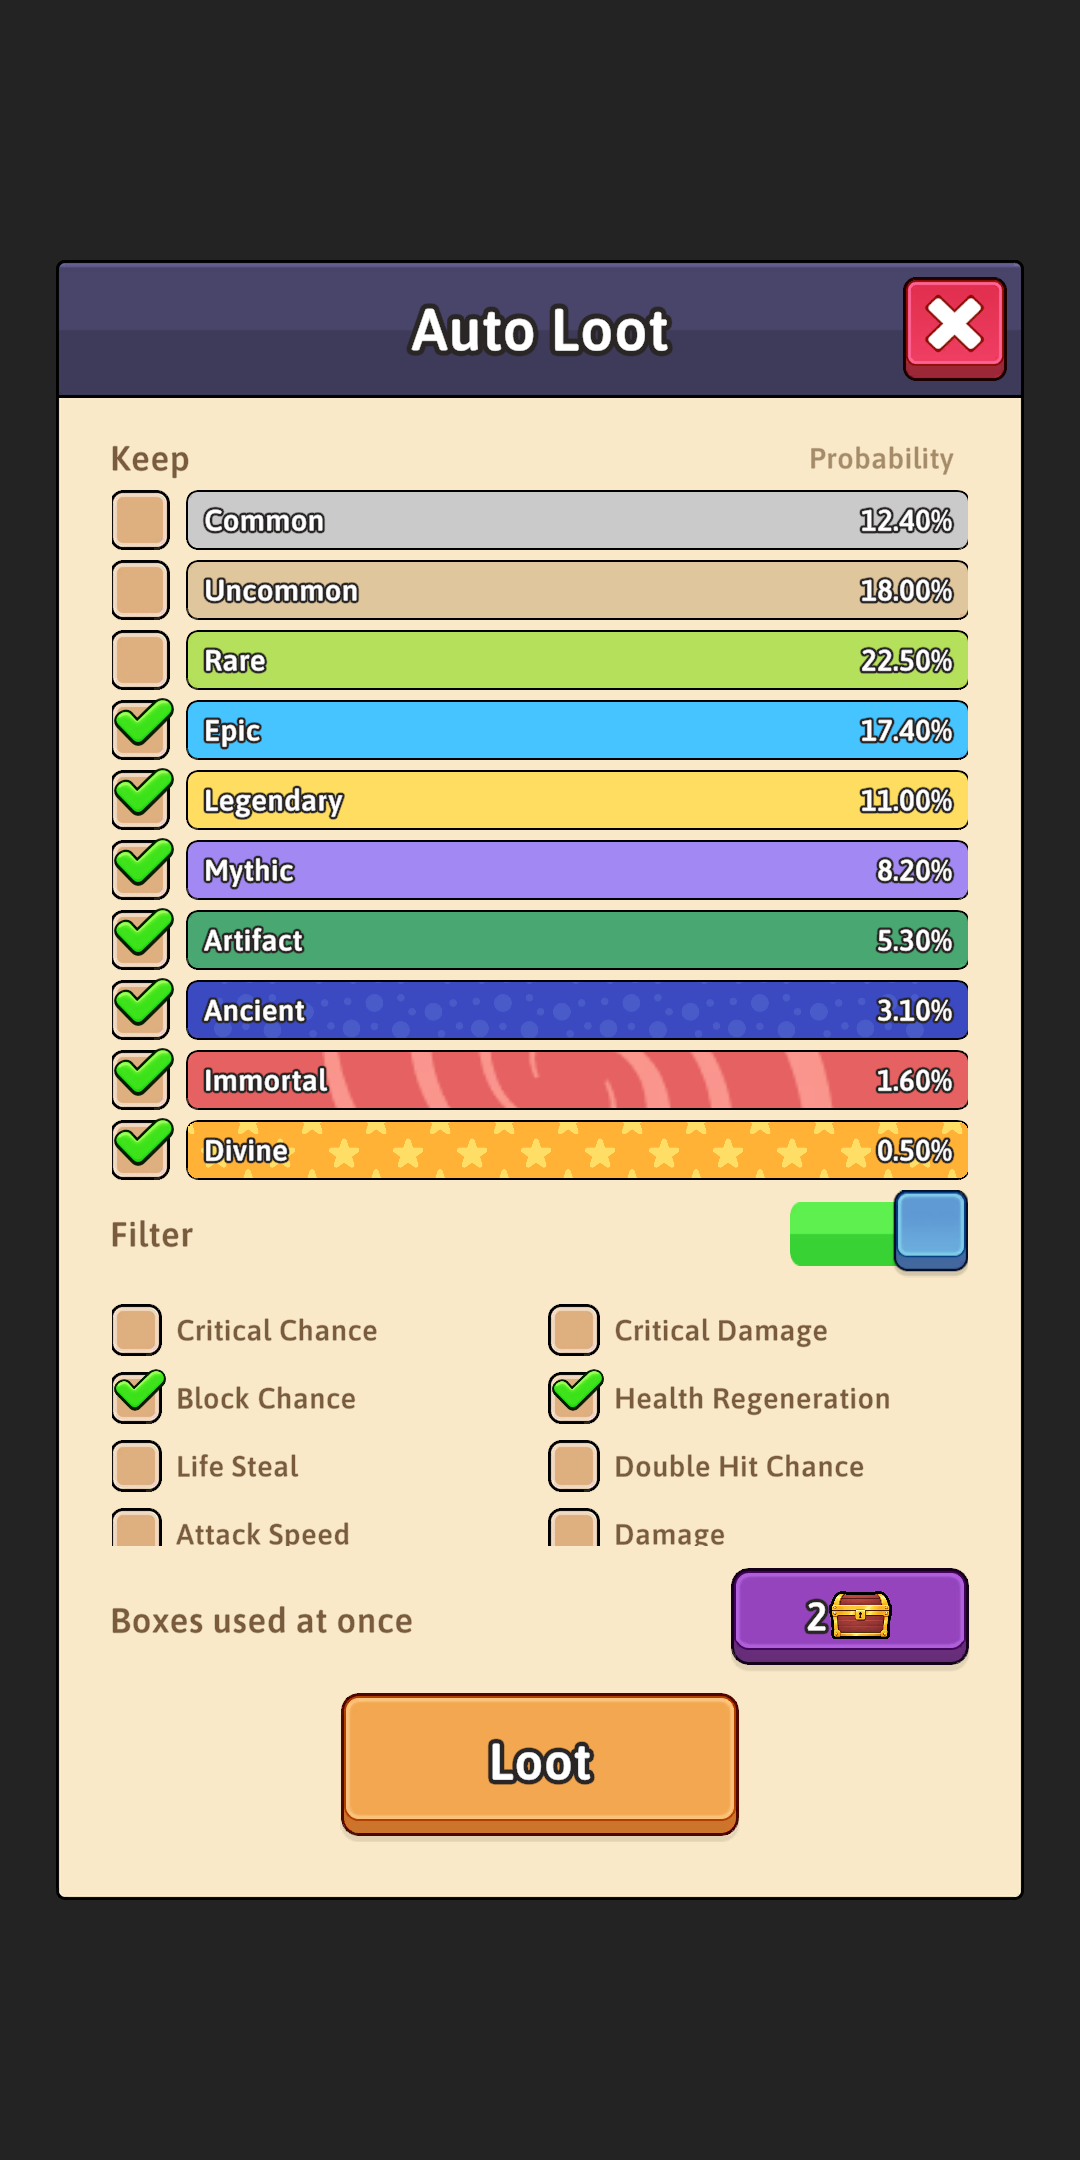
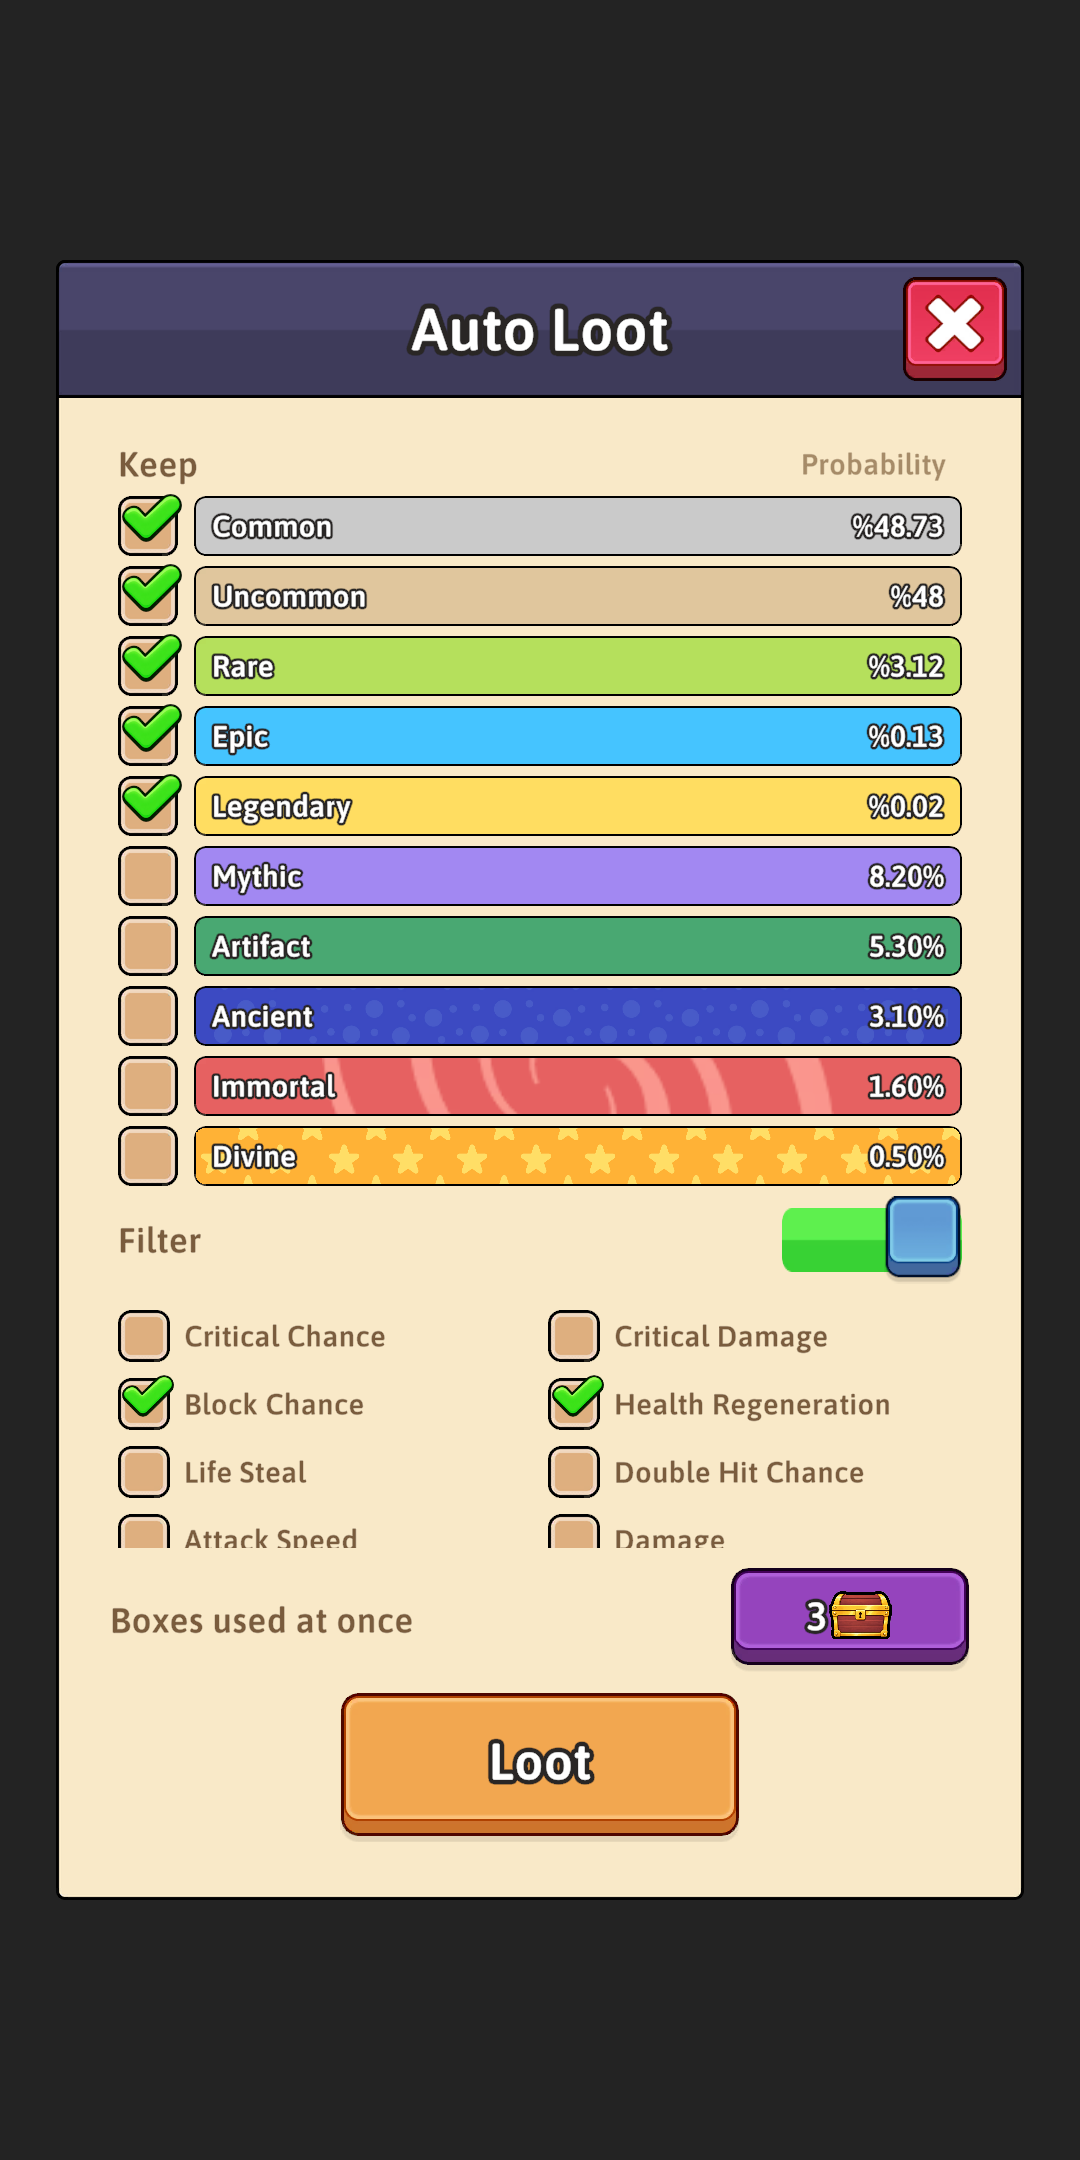
Sửa viền Auto Loot bị mask cắt; ghi tiến độ + quy trình tối ưu reskin popup
- Batch1Reskin: vùng cuộn Auto Loot dùng mask không sprite + lề trong 8 (sprite UIMask bo mép làm đứt viền ô tick/thanh rarity); chạy lại cho prefab
- tools/concept/PLAN.md: quy trình 3 phase (khảo sát → concept → áp), bẫy đã gặp, dòng "Đang ở / Tiếp theo" (xong Đợt 0+1, tiếp Đợt 2)
- Memory: gọn lại, trỏ về PLAN.md, ghi các điểm user đã sửa để không lặp

Changed region(s): [[0.0917, 0.1861, 0.9167, 0.7134], [0.7944, 0.6204, 0.825, 0.6514], [0.7333, 0.7444, 0.7639, 0.7755]]

diff --git a/2026DungeonRushUnity/Assets/_Assets/Scripts/Art/Editor/Batch1Reskin.cs b/2026DungeonRushUnity/Assets/_Assets/Scripts/Art/Editor/Batch1Reskin.cs
@@ -375,6 +375,7 @@ public static class Batch1Reskin
     private const float ROW_HEIGHT = 60f;
     private const float CHECK_SIZE = 60f;
     private const float BAR_LEFT = 76f;
+    private const float SCROLL_PAD = 8f;
     private static readonly string[] RARITY_BARS =
         { "common", "uncommon", "rare", "epic", "legendary", "mythic", "artifact", "ancient", "immortal", "divine" };
 
@@ -404,9 +405,14 @@ public static class Batch1Reskin
             float scrollHeight = AUTO_HEIGHT - PopupStyle.CONTENT_TOP - AUTO_BOTTOM - 20f;
             float innerWidth = PopupStyle.WIDTH_LARGE - 2f * PopupStyle.SIDE_INSET;
             PopupStyle.PlaceTop(scroll, 0f, PopupStyle.CONTENT_TOP + scrollHeight / 2f, innerWidth, scrollHeight);
-            PopupStyle.Stretch(scroll.Find("Viewport"));
-            Transform content = scroll.Find("Viewport/Content");
-            SetVertical(content.GetComponent<VerticalLayoutGroup>(), 24f);
+            // Mặt nạ cắt vuông (sprite UIMask bo mờ mép 10 làm đứt viền đen ô tick/thanh) + chừa lề 8 hai bên.
+            Transform viewport = scroll.Find("Viewport");
+            PopupStyle.Stretch(viewport);
+            viewport.GetComponent<Image>().sprite = null;
+            Transform content = viewport.Find("Content");
+            VerticalLayoutGroup contentLayout = content.GetComponent<VerticalLayoutGroup>();
+            SetVertical(contentLayout, 24f);
+            contentLayout.padding = new RectOffset((int)SCROLL_PAD, (int)SCROLL_PAD, 6, 6);
 
             Transform loot = content.Find("LootList");
             SetVertical(loot.GetComponent<VerticalLayoutGroup>(), 10f);
@@ -419,7 +425,7 @@ public static class Batch1Reskin
             PopupStyle.RemoveComponent<VerticalLayoutGroup>(filterList);
             GridLayoutGroup grid = filterList.GetComponent<GridLayoutGroup>();
             if (grid == null) grid = filterList.gameObject.AddComponent<GridLayoutGroup>();
-            grid.cellSize = new Vector2((innerWidth - 16f) / 2f, 56f);
+            grid.cellSize = new Vector2((innerWidth - 2f * SCROLL_PAD - 16f) / 2f, 56f);
             grid.spacing = new Vector2(16f, 12f);
             grid.constraint = GridLayoutGroup.Constraint.FixedColumnCount;
             grid.constraintCount = 2;

diff --git a/zMemory/dungonrush-ui-concept-workflow.md b/zMemory/dungonrush-ui-concept-workflow.md
@@ -1,11 +1,11 @@
 ---
 name: dungonrush-ui-concept-workflow
-description: "Quy trình chuẩn chuẩn bị reskin lại bộ UI — học style ảnh mẫu, concept HTML bằng sprite thật, user duyệt, tool editor sửa prefab tại chỗ; mẫu đầu là popup 7 ngày (2026-11-11)"
+description: "Reskin lại MỌI popup theo đợt: concept HTML sprite thật → user chốt → tool PopupStyle/Batch<N>Reskin sửa prefab tại chỗ; quy trình + tiến độ ở tools/concept/PLAN.md; Đợt 0+1 xong 2026-11-11, tiếp Đợt 2"
 metadata:
   node_type: memory
   type: project
   originSessionId: 3164be48-a1fc-4de0-a1a9-4dd4a3175277
-  modified: 2026-11-11T08:33:36.794Z
+  modified: 2026-11-11T17:00:00.000Z
 ---
 
 User duyệt cách làm này ngày 2026-11-11, dặn CHỈ lưu trong bộ nhớ, KHÔNG viết tài liệu vào GDD/.
@@ -25,34 +25,26 @@ User duyệt cách làm này ngày 2026-11-11, dặn CHỈ lưu trong bộ nhớ
 - Ruy băng vàng `Gameplay/ribbon_offer`, nhãn đỏ `Events/ribbon_red` (9-slice L20 R52), ô tối bo tròn `Mastery/mastery_panel` (9-slice 45), thẻ `Mastery/card_locked`/`card_unlocked`.
 - Icon tiền `Art/2_Icons/Currency/`: `gem`, `box_icon` (= búa Loot), `bone_icon`.
 
-## Các bước
-1. Đo màu ảnh mẫu bằng PIL (trung bình 5×5 px), rút quy tắc viền/nút/chữ/bố cục.
-2. (Tuỳ) concept nháp bằng widget HTML để chốt bố cục/UX.
-3. Concept bằng sprite thật: `tools/concept/<màn>/concept.html` trỏ thẳng `Art/` + font Asap; 1 px CSS = 2 đơn vị canvas 1080×2160; vẽ đủ mọi trạng thái cạnh nhau.
-4. Chụp: `tools/concept/render_concept.sh <html> <png>` (Chrome headless ×2); ảnh để cạnh html trong `tools/concept/<màn>/`.
-5. Ảnh kit không có → sinh bằng code `tools/reskin/gen_*.py` (VD `gen_day7_bg.py`); icon minh hoạ mới → skill chatgpt-image.
-6. User duyệt concept xong mới đụng Unity.
-7. Tool editor `Scripts/Art/Editor/<Màn>Reskin.cs`: sửa prefab có sẵn TẠI CHỖ (giữ GUID + chỉnh tay cũ), chạy lại ra cùng kết quả, số đo = concept × 2; builder cũ gọi tool ở cuối.
-8. Đổi trạng thái = đổi sprite / ẩn hiện trong script UI, không tô màu đè.
-9. Chữ mới: key vào đủ 10 file `Resources/Json/Localize/Languages/`, chữ dài bật auto size.
-10. Chụp kiểm `UICaptureTool.Capture` (không cần Play), ghép cạnh concept.
+## Quy trình + tiến độ: `tools/concept/PLAN.md` (nguồn chính, đọc đầu tiên)
+PLAN.md giữ: danh sách 67 popup chia Đợt 0..9, quy trình tối ưu 3 phase (A khảo sát → B concept → C áp), bẫy đã gặp, bảng tiến độ + dòng "Đang ở / Tiếp theo". Cập nhật bảng sau MỖI bước.
 
-## Bẫy
-- Unity `spriteBorder` = (trái, dưới, phải, trên); CSS `border-image-slice` = (trên, phải, dưới, trái).
-- Concept: `position:absolute` tính từ mép trong viền → bỏ `border-image` phải dời lại vị trí.
-- `Loc.L` ở edit mode trả key (LocalizeManager chỉ nạp khi Play) → chụp kiểm gán chữ tay. Đừng gọi `X.Instance` Singleton không có trong scene đang mở.
-- Nút khoá: `Button.transition = None` + sprite xám, để ColorTint sẽ tối thêm.
+## Code dùng chung đã có
+- `tools/concept/kit/kit.css` (CSS kit, concept các đợt link vào) + `tools/concept/render_concept.sh` (Chrome headless ×2).
+- `Scripts/Art/Editor/PopupStyle.cs` (Shell/Title/CloseButton/Button màu chức năng/Outline/Plain/PlaceTop đo từ mép trên).
+- `Scripts/Art/Editor/Batch1Reskin.cs` = mẫu tool 1 đợt; `UICaptureTool.Capture` chụp edit mode.
+- `Scripts/UI/Forge/ItemStatsView.cs` = khối chữ món đồ (dùng lại cho Wing/Cape/Enchantment info ở đợt sau).
 
-## Mẫu đầu: popup 7 ngày (2026-11-11)
-`tools/concept/seven_day/` (concept.html + ảnh concept + ảnh Unity), `SevenDayPopupReskin` (menu Tools/DungeonRush/Reskin/Seven Day Popup), `SevenDayCellUI` đổi sprite, `UISevenDayPopup` ô đếm giờ + nút X, nền `Art/1_UIKit/SevenDay/day7_bg.png`, 3 key `Popup.SevenDay.Subtitle/NextGift/BigReward`. Chụp edit mode khớp concept; CHƯA test Play, CHƯA commit.
+## Điều user đã dặn / sửa (đừng lặp lỗi)
+- Trước khi concept popup có chỉ số: đếm số dòng TỐI ĐA từ data thật, khung cao cố định theo max (user hỏi "đủ không gian chưa").
+- Nhãn/tag không được dính sát ô bên dưới (user báo "bị kích quá").
+- Thanh tiến độ: fill phải thụt đều trong viền (user báo lỗi bản đầu).
+- Viền đen bị mask vùng cuộn cắt (user báo "viền đứt") → mask không sprite + lề 8.
+- Chốt concept rồi mới đụng Unity; commit thẳng main khi user bảo (user đã bảo commit sau mỗi đợt).
+
+## Đã làm
+- Mẫu đầu: popup 7 ngày (`SevenDayPopupReskin`) + kết quả dungeon (`DungeonEndPopupReskin`) — commit 37505a04.
+- Đợt 0 kit + Đợt 1 Trang bị & Loot (6 popup) — commit 812200d0, sửa viền Auto Loot sau đó. Thêm nút Claim tím ở Combat Summary (user chốt concept). Popup Đợt 1 khác Auto Loot CHƯA test Play.
 
 **Why:** user sẽ reskin lại cả bộ UI theo style mới; concept trước → duyệt → áp để khỏi làm lại prefab nhiều lần.
 
-**How to apply:** màn mới → làm theo các bước trên, chờ user duyệt concept rồi mới viết tool reskin. Liên quan [[dungonrush-reskin-ui-howto]], [[dungonrush-reskin-plan]], [[dungonrush-growth-p0]].
-
-## Kế hoạch toàn bộ popup (2026-11-11)
-User yêu cầu concept lại MỌI popup còn lại, chia đợt: concept xong user chốt mới ghép vào game. Kế hoạch + bảng tiến độ ở `tools/concept/PLAN.md` (đợt 0 kit chung + 9 đợt, 67 popup). Đọc file đó khi user nói "làm đợt tiếp", cập nhật bảng tiến độ sau mỗi bước.
-- Concept các đợt link `tools/concept/kit/kit.css` (CSS kit chung); C# kit = `Scripts/Art/Editor/PopupStyle.cs` (Shell/Title/CloseButton/Button màu chức năng/Outline/Plain/PlaceTop đo từ mép trên).
-- User đòi: TRƯỚC khi concept popup có chỉ số phải đếm số dòng tối đa từ data thật (gear 1+3 substat, Wing 2+5, Cape 2+2, Auto Loot 10 rarity + 13 lọc) → ô cao cố định theo max, rỗng hiện "No bonus stats".
-- Đợt 1 (2026-11-11) đã áp: `Batch1Reskin` (menu Tools/DungeonRush/Reskin/Batch 1), `ItemStatsView` dùng chung cho ItemInfo/NewItem/NewForge, builder cũ Forge/Level/Offline gọi tool cuối; thêm nút Claim tím ở Combat Summary (user chốt concept). CHƯA test Play, đã commit 812200d0.
-- Bẫy chụp: Auto Loot có ContentSizeFitter lồng → ép LayoutRebuilder từng list rồi Content; TMP sprite asset cần UpdateLookupTables trước khi chụp.
+**How to apply:** user nói "làm đợt tiếp"/"làm Đợt N" → mở PLAN.md, làm theo quy trình A→B→C, chờ user chốt concept rồi mới viết tool reskin. Liên quan [[dungonrush-reskin-ui-howto]], [[dungonrush-reskin-plan]], [[dungonrush-growth-p0]].

diff --git a/tools/concept/PLAN.md b/tools/concept/PLAN.md
@@ -4,12 +4,30 @@
 Còn: 67 popup = 66 key trong `UIKey` (trừ `UIChatTabPage` là trang) + `MateryPopupUpgrade` nằm trong UIMainGame2.
 Không làm: trang tab (`StoreTabPage`, `ClanTabPage`, `UIChatTabPage`), `LevelPopup` + `UiLevelPopup ` (nguồn rip, game không mở).
 
-## Quy trình mỗi đợt
-1. Chụp hiện trạng mọi popup trong đợt bằng `UICaptureTool` → `tools/concept/<đợt>/before/`.
-2. Concept HTML bằng sprite thật → `tools/concept/<đợt>/concept.html` + `concept.png`, đủ mọi trạng thái.
-3. **User chốt concept** (sửa đến khi chốt).
-4. Tool `Scripts/Art/Editor/<Đợt>Reskin.cs` sửa prefab tại chỗ (giữ GUID), chạy lại ra cùng kết quả.
-5. Chụp kiểm Unity cạnh concept, console 0 lỗi → commit đợt.
+## Quy trình mỗi đợt (bản tối ưu sau Đợt 1)
+**A. Khảo sát (1 lượt, trước khi vẽ)**
+1. Chụp hiện trạng mọi popup bằng `UICaptureTool` → `tools/concept/<đợt>/before/`.
+2. Dump cây prefab (tên, anchor, pos, size, component, sprite, chữ) bằng UnityMCP `execute_code` ra scratchpad — đọc 1 lần thay vì mở từng prefab.
+3. Đọc script popup + builder cũ: trường nào nối node nào, chỗ nào **tô màu đè** (đổi sang đổi sprite), chữ nào cứng / có key dịch sẵn.
+4. **Đếm số dòng/ô TỐI ĐA từ data thật** (vd gear 1+3 substat, Wing 2+5, Auto Loot 10 rarity + 13 lọc) và tên dài nhất 10 ngôn ngữ → khung cao cố định theo max, rỗng thì chữ mờ.
+
+**B. Concept**
+5. `tools/concept/<đợt>/concept.html` link `../kit/kit.css`, `<base>` trỏ `Art/`, vẽ CẢ trường hợp nhiều dòng nhất lẫn ít dòng nhất + mọi trạng thái (khoá, xác nhận, cuộn đáy).
+6. Tự soát trước khi gửi: nhãn/tag phải có khoảng hở với ô (không dính), không chữ đè nút X, thanh tiến độ fill thụt đều trong viền.
+7. **User chốt** (sửa đến khi chốt). Ghi các chỗ lệch gốc/đề xuất để user quyết.
+
+**C. Áp vào game**
+8. Script: đổi trạng thái bằng sprite/ẩn hiện; khối lặp lại thì tách component dùng chung (vd `ItemStatsView`).
+9. Tool `Scripts/Art/Editor/Batch<N>Reskin.cs` dùng `PopupStyle` (Shell/Title/CloseButton/Button/Outline/Plain/PlaceTop — toạ độ đo từ MÉP TRÊN panel tới TÂM, = concept × 2). Sửa prefab tại chỗ, chạy lại ra cùng kết quả; builder cũ gọi tool ở cuối.
+10. Thoát Play mode trước khi biên dịch/chạy tool (Play đang chạy thì code mới chưa nạp).
+11. Chụp kiểm từng trạng thái có dữ liệu mẫu → ghép `tools/concept/<đợt>/unity.png` cạnh concept, console 0 lỗi → commit đợt → user test Play.
+
+**Bẫy đã gặp**
+- Vùng cuộn: Mask dùng sprite `UIMask` bo mờ mép → cắt viền đen phần tử sát mép. Dùng mask không sprite + lề trong 8.
+- Chụp edit mode: ContentSizeFitter lồng nhau phải `ForceRebuildLayoutImmediate` từng list rồi tới Content; TMP sprite asset gọi `UpdateLookupTables()` trước; `Loc.L` trả key → điền chữ tay.
+- Ô chữ 2 cột (nhãn + số): cột số đặt theo `GetPreferredValues` của nhãn lúc chạy (nhãn đổi theo ngôn ngữ).
+- Mũi tên đặt theo `textBounds` → neo = pivot của ô chữ.
+- CSS: border-image dùng `/ width` + padding, đừng để `position:absolute` tính từ mép trong viền (lệch fill).
 
 ## Các đợt (thứ tự theo mức người chơi gặp sớm)
 
@@ -32,10 +50,12 @@ Không làm: trang tab (`StoreTabPage`, `ClanTabPage`, `UIChatTabPage`), `LevelP
 - Đổi trạng thái bằng đổi sprite / ẩn hiện trong script, không tô màu đè.
 
 ## Tiến độ
+**Đang ở:** Đợt 1 xong (áp + commit). **Tiếp theo:** Đợt 2 Shop & ưu đãi — bắt đầu từ bước A.
+
 | Đợt | Concept | Chốt | Áp vào game | Commit |
 |---|---|---|---|---|
-| 0 | ✅ tools/concept/kit/ (kit.css dùng chung) | ✅ 2026-11-11 | ✅ Scripts/Art/Editor/PopupStyle.cs | |
-| 1 | ✅ tools/concept/batch1/ | ✅ 2026-11-11 | ✅ Batch1Reskin (chụp edit mode: batch1/unity.png), CHƯA test Play | ✅ 812200d0 |
+| 0 | ✅ tools/concept/kit/ (kit.css dùng chung) | ✅ 2026-11-11 | ✅ Scripts/Art/Editor/PopupStyle.cs | ✅ 812200d0 |
+| 1 | ✅ tools/concept/batch1/ | ✅ 2026-11-11 | ✅ Batch1Reskin (chụp edit mode: batch1/unity.png); user test Play Auto Loot → sửa viền bị mask cắt; các popup khác CHƯA test Play | ✅ 812200d0 + sửa viền |
 | 2 | | | | |
 | 3 | | | | |
 | 4 | | | | |

diff --git a/zMemory/MEMORY.md b/zMemory/MEMORY.md
@@ -75,7 +75,7 @@
 - [Gốc KHÔNG rơi Bone từ quái](dungonrush-no-combat-bone-drop.md) — combat_drop Bone/rương là code chết (BoneDropPrefab null); đừng port; doc LOOT_DROP_MODEL.md
 - [Reskin toàn game](dungonrush-reskin-plan.md) — CHỈ thay hình; Art/<1_UIKit..7_FX> + ArtIncoming gương + Apply Reskin; các màn đã reskin + commit
 - [Cách reskin 1 màn UI](dungonrush-reskin-ui-howto.md) — quy trình lobby: nhóm A ghi đè/B ảnh mới+prefab, pha màu thay ChatGPT cho hình học, ChatGPT cho icon, bẫy TMP sprite/Slider/Game view nhỏ; script tools/reskin/
-- [Quy trình concept → reskin UI](dungonrush-ui-concept-workflow.md) — style chuẩn, kit theo vai trò, concept HTML bằng sprite thật, tool sửa prefab tại chỗ; chỉ lưu ở memory, không ghi GDD; kế hoạch mọi popup ở tools/concept/PLAN.md
+- [Quy trình concept → reskin UI](dungonrush-ui-concept-workflow.md) — reskin MỌI popup theo đợt (concept → user chốt → PopupStyle/Batch<N>Reskin); quy trình + tiến độ ở tools/concept/PLAN.md; Đợt 0+1 xong, tiếp Đợt 2
 - [Reskin gameplay](dungonrush-reskin-gameplay.md) — map tường/sàn vẽ code, quái vịt đen ChatGPT trên rig hero, 3 popup đồ/offer kit Mastery; 2026-10-18 CHƯA commit
 - [Reskin Shop](dungonrush-reskin-shop.md) — StoreTabPage + 5 popup Shop (kit Mastery, ribbon_tint tô rarity) 2026-10-18: khung art + 19 icon ChatGPT ghi đè giữ size cũ + 6 gói gem; bẫy tách nền tím; đã commit
 - [Reskin Mining](dungonrush-reskin-mining.md) — 2026-10-19 đã commit: kit Mastery + art 1_UIKit/Mining, ChatGPT 7 icon quặng (diamond=thạch anh tím), nút dụng cụ đổi sprite; CẤM chạy lại Build Mining
